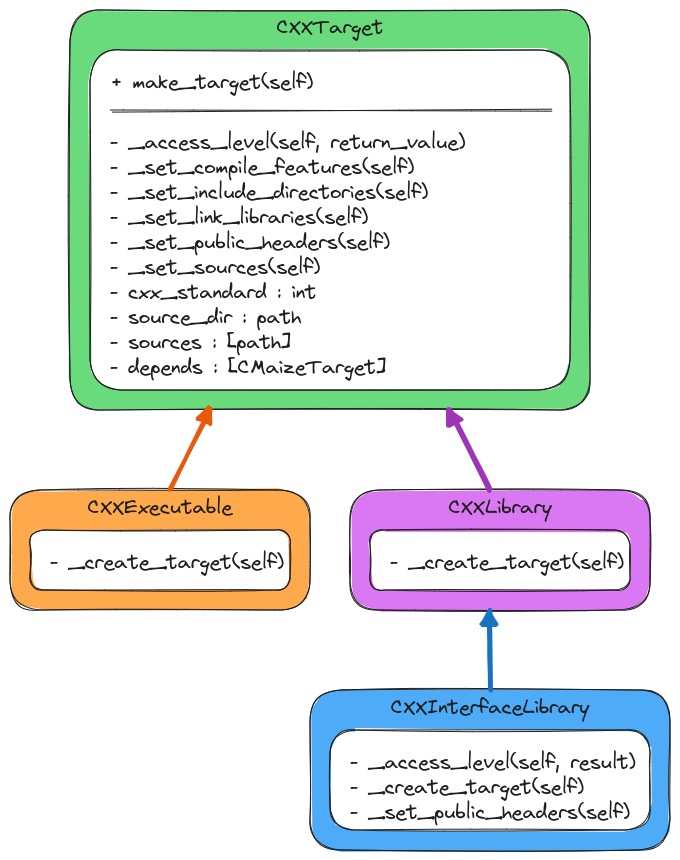
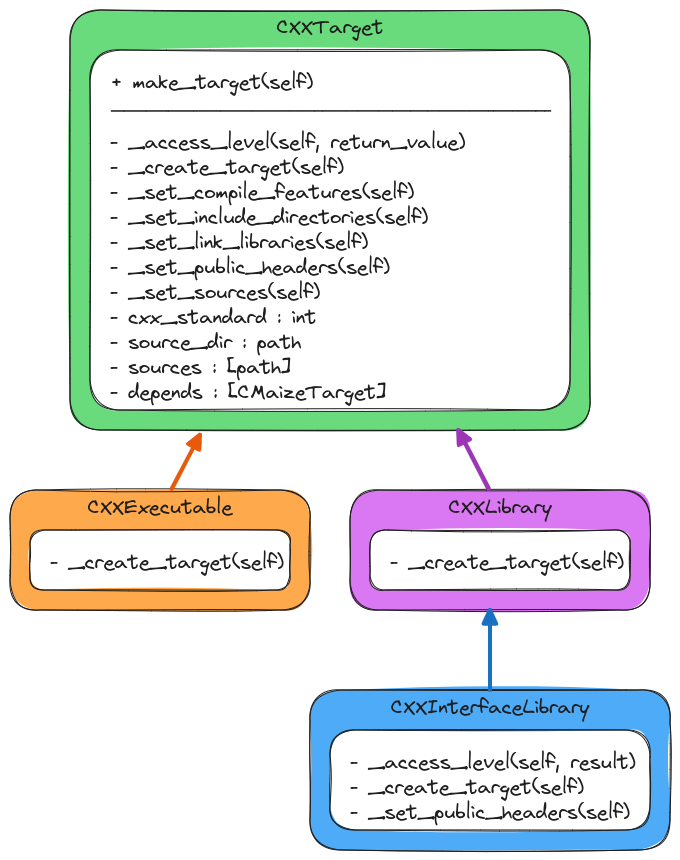
Target Part 2 (#130)
* start next PR [skip ci]

* r2g?

* remove (now) redundant files

* Apply suggestions from code review

---------

diff --git a/docs/src/developer/design/classes/cxx_target.rst b/docs/src/developer/design/classes/cxx_target.rst
@@ -18,4 +18,177 @@
 Designing CMaize's C++ Target Classes
 #####################################
 
-TODO: Fill me out!
+:ref:`designing_cmaizes_target_component` described the design of the language
+agnostic pieces of CMaize's Target component. This page describes the design
+of the Target component specific to C++ targets.
+
+********************************
+What are the C++ Target Classes?
+********************************
+
+As the name suggests, the C++ target classes are the classes in CMaize's Target
+component which describe C++ targets including libraries and executables.
+
+**********************************
+Why Do We Need C++ Target Classes?
+**********************************
+
+CMaize's C++ target classes will provide an object-oriented representation of
+CMake's native C++ targets. C++ target objects are needed to ensure that C++
+targets can be treated in a manner that is compatible with CMaize's target
+support for coding languages not supported by traditional CMake. CMaize's target
+classes also help extract away much of the repetition resulting from using
+CMake's C++ targets directly.
+
+*************************
+C++ Target Considerations
+*************************
+
+To motivate the considerations for the C++ Target classes consider the
+traditional CMake workflow for setting up C++ targets:
+
+.. code-block:: CMake
+
+   # Step 1: Declare the target for the library
+   add_library(...)
+
+   # Step 2: Set compiler features needed by the target
+   target_compile_features(...)
+
+   # Step 3: Set up the include directories for the target. This includes the
+   #         include paths needed to build the target and the include paths the
+   #         target will need after it has been installed.
+   target_include_directories(...)
+
+   # Step 4: Ensure that the header files defining the public API of the target
+   #         will be installed.
+   install(...)
+
+   # Step 5: Register the dependencies of the target
+   target_link_libraries(...)
+
+   # Step 6: Add source files to the target (if there are any)
+   target_source(...)
+
+   # Step 7: Decide where to install the target and configure the packaging
+   #         file for finding the target
+   install(...)
+
+   # Step 8: Install the packaging file.
+   install(...)
+
+The above workflow is for C++ libraries, but is nearly identical to that of
+an executable except that when building an executable step 1 calls
+``add_executable`` instead of ``add_library``.
+
+This leads to the following considerations:
+
+.. _ct_cmake_target_creation:
+
+CMake target creation
+   :ref:`designing_cmaizes_target_component` called for each CMaize target to
+   have an underlying CMake target. The various C++ target classes will be
+   responsible for actually creating and initializing those targets.
+
+.. _ct_cxx_libraries_and_executables:
+
+C++ libraries and executables
+    Software written in C++ is comprised of two types of objects: libraries and
+    executables. The C++ target classes must be able to represent executables
+    and libraries.
+
+.. _ct_header_only_libraries:
+
+header-only libraries
+   Many modern C++ libraries are header-only. Conceptually, such libraries
+   follow the same workflow, but skip step 6 (adding source files to the
+   target). Unfortunately, CMake requires header-only libraries to provide
+   different inputs for a number of the steps (in the above code snippet, the
+   actual differences are part of the ellipses and are thus not shown). The
+   C++ target classes should abstract away the differences between setting-up
+   header-only and compiled libraries.
+
+.. _ct_abstract_base:
+
+abstract base
+   As the above code snippet showed, the process for configuring and installing
+   a C++ library is nearly identical to that of configuring and installing a
+   C++ executable. The CMaize objects should factor out the common routines and
+   abstract away the differences. From an object-oriented design standpoint this
+   suggests a common abstract base class.
+
+Out of Scope
+============
+
+installing packages
+   The above workflow for creating C++ targets showed installation for
+   completeness; however, actually installing the targets is the responsibility
+   of the package manager.
+
+*****************
+C++ Target Design
+*****************
+
+.. _fig_cxx_target_design:
+
+.. figure:: assets/cxx_targets.png
+   :align: center
+
+   The classes implementing CMaize's target component for C++ targets.
+
+:numref:`fig_cxx_target_design` is a class diagram for the classes responsible
+for modeling C++ targets. Following from consideration :ref:`ct_abstract_base`
+we have introduced the ``CXXTarget`` class to factor out the common
+infrastructure. The ``CXXTarget`` class implements the ``make_target`` function
+defined by the ``BuildTarget`` class in terms of a series of virtual protected
+member functions, i.e, ``_create_target``, ``_set_compile_features``,
+``_set_include_directories``, ``_set_link_libraries``, and ``_set_sources``.
+
+Following from the :ref:`ct_cxx_libraries_and_executables` consideration, we
+derive from ``CXXTarget`` the ``CXXExecutable`` and ``CXXLibrary`` classes.
+These classes simply override ``_create_target`` so that it calls
+``add_executable`` or ``add_library``, respectively. Finally, to address the
+:ref:`ct_header_only_libraries` consideration we derive the
+``CXXInterfaceLibrary`` class from the ``CXXLibrary`` class.
+
+Proposed API
+============
+
+To create a C++ library:
+
+.. code-block:: CMake
+
+   set(include_files ...) # Somehow get a list of header files
+   set(source_files ...)  # Somehow get a list of source files
+
+   # Create a library called "my_first_cmaize_cxx_library" and assign it to the
+   # variable cxx_library
+   CXXLibrary(CTOR cxx_library "my_first_cmaize_cxx_library")
+
+   # Actually create the CMake target powering the library
+   CXXLibrary(make_target
+       "${cxx_library}"
+       INCLUDES "${include_files}"
+       SOURCES "${source_files}"
+   )
+
+*******
+Summary
+*******
+
+:ref:`ct_cmake_target_creation`
+   The literal CMake targets are created by the derived classes when overriding
+   ``CXXTarget``'s ``_create_target`` function.
+
+:ref:`ct_cxx_libraries_and_executables`
+   The ``CXXLibrary`` and ``CXXExecutable`` classes respectively model a C++
+   library and a C++ executable.
+
+:ref:`ct_header_only_libraries`
+   The ``CXXInterfaceLibrary`` class derives from the ``CXXLibrary`` class and
+   modifies the workflows so that the underlying CMake calls are consistent with
+   declaring a header-only library.
+
+:ref:`ct_abstract_base`
+   The ``CXXTarget`` class has been introduced to factor out common
+   infrastructure.

diff --git a/docs/src/developer/design/classes/target.rst b/docs/src/developer/design/classes/target.rst
@@ -47,6 +47,10 @@ users creating a target for a C++ executable, via the ``CXXExecutable`` class
 need only interact with target properties which are relevant for executables,
 whereas the native CMake :term:`API` additionally exposes many other
 considerations including: libraries, object libraries, and alias targets.
+Another motivation for CMaize's target component is to wrap the process of getting/
+setting target properties in a more user-friendly interface (CMake's native
+API can be a bit of a pain because it depends on exactly what the target
+represents).
 
 Another motivation for CMaize's target component is to extend CMake targets to
 other coding languages. Out of the box, CMake targets are primarily meant for

diff --git a/docs/src/developer/design/classes/package_manager.rst b/docs/src/developer/design/classes/package_manager.rst
@@ -37,3 +37,7 @@ building packages
    The design discussion in :ref:`designing_cmaizes_user_api` decided that the
    package manager would be responsible for building packages that
    the :term:`project` depends on.
+
+installing packages
+   Brought up in :ref:`designing_cmaizes_cxx_target_classes`, the package
+   manager is responsible for installing the built packages.

diff --git a/docs/src/developer/design_notes/classes/index.rst b/docs/src/developer/design_notes/classes/index.rst
@@ -21,9 +21,5 @@ This chapter describes the design of different classes that make up CMaize.
 .. toctree::
    :maxdepth: 1
 
-   build_target
-   cxx_target
-   installed_target
    package_specification
-   target
    toolchain
